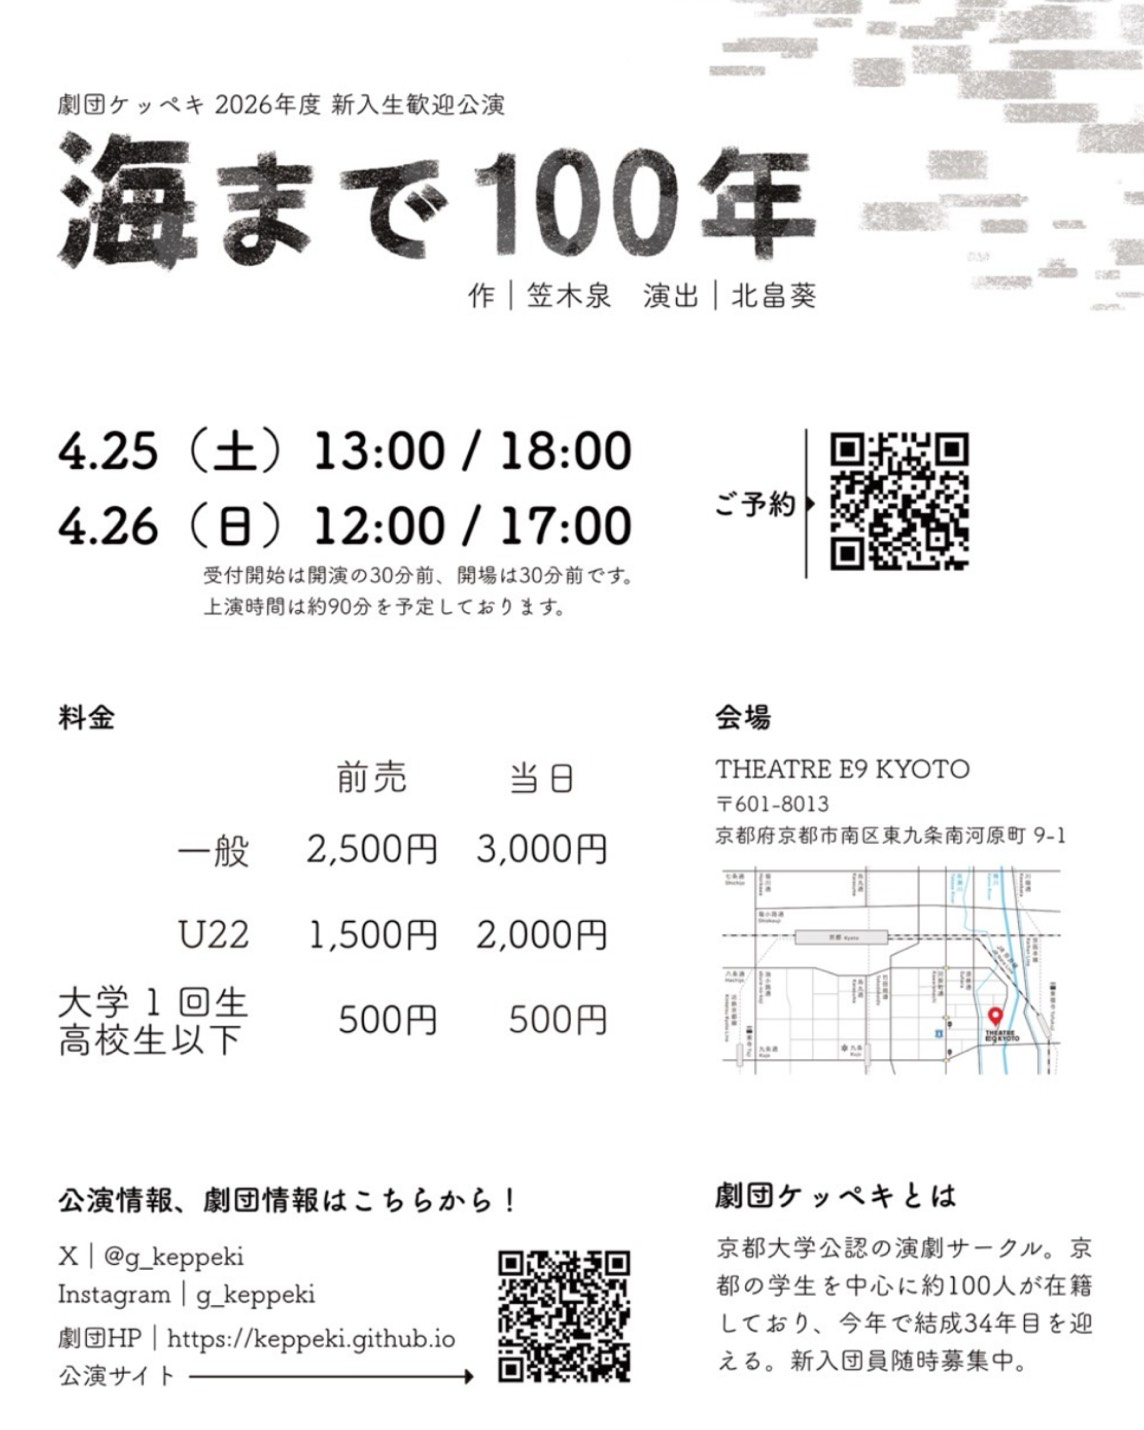
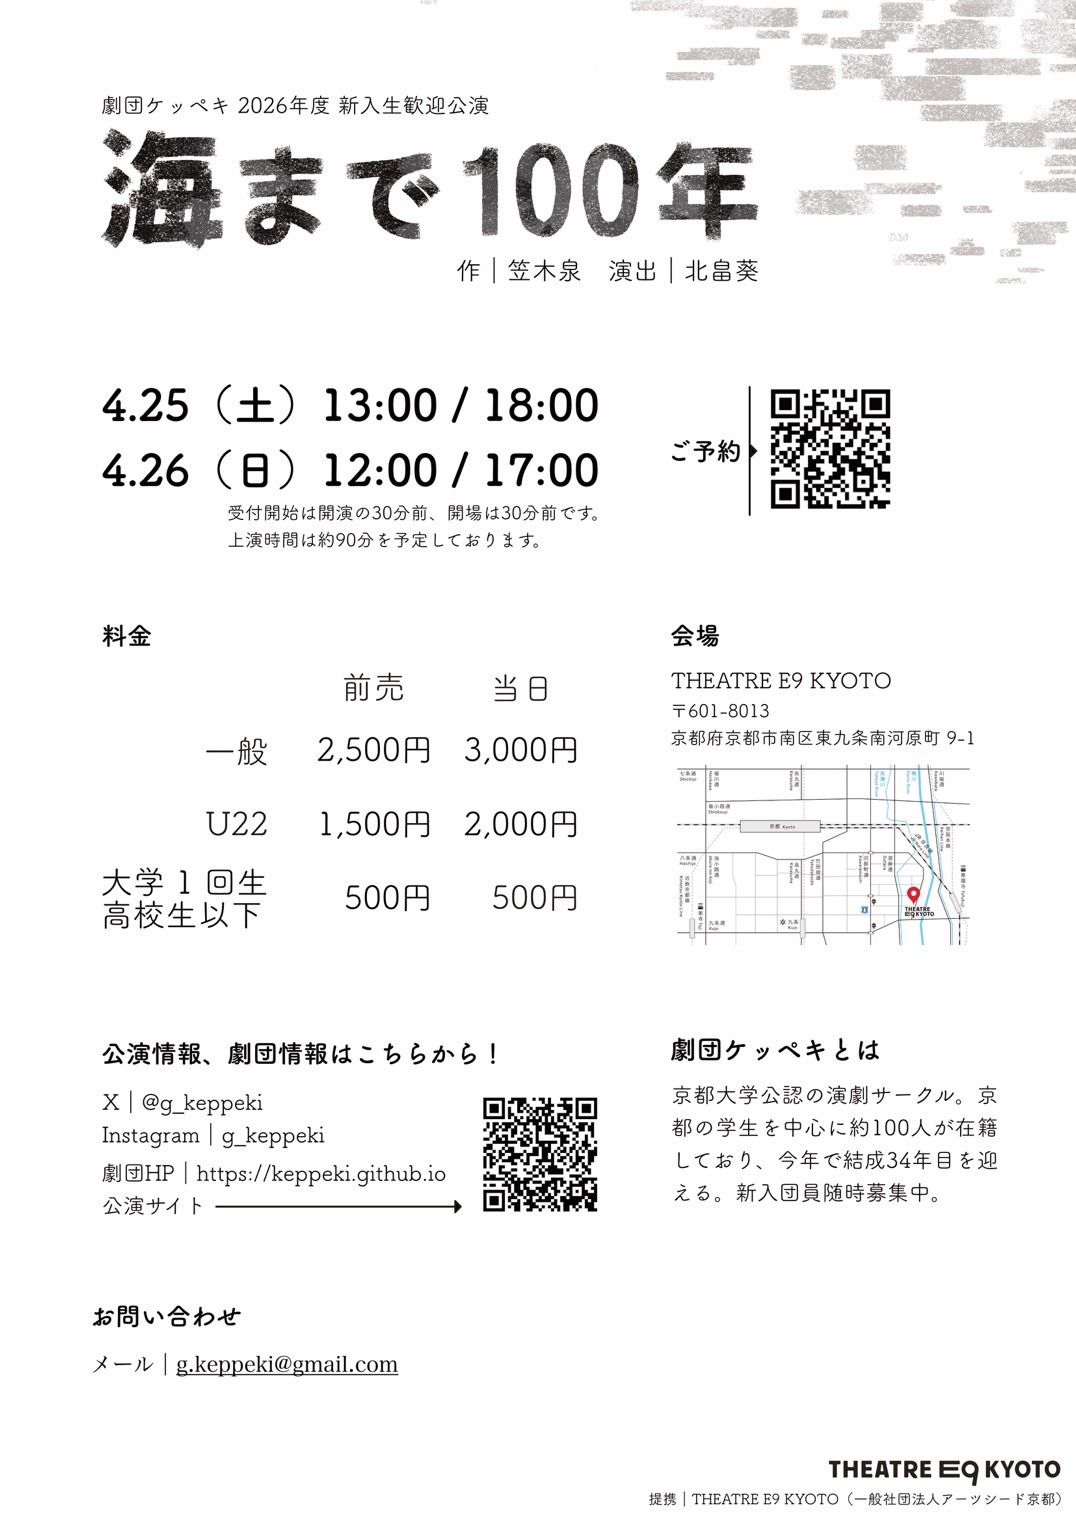
文字修正

diff --git a/docs/html/01_nextstage.html b/docs/html/01_nextstage.html
@@ -82,12 +82,12 @@
                         <!-- 料金 -->
                         <h5 class="fw-bold mt-4 mb-2">【料金】</h5>
                         <ul class="price-list">
-                            <li><span class="label">一般予約</span><span class="value">2,500円</span></li>
+                            <li><span class="label">一般前売</span><span class="value">2,500円</span></li>
                             <li><span class="label">一般当日</span><span class="value">3,000円</span></li>
                             <br>
-                            <li><span class="label">U22予約</span><span class="value">1,500円</span></li>
+                            <li><span class="label">U22前売</span><span class="value">1,500円</span></li>
                             <li><span class="label">U22当日</span><span class="value">2,000円</span></li>
-                            <li><span class="label">大学一回生,高校生以下<br>予約/当日</span><span class="value">500円</span></li>
+                            <li><span class="label">大学一回生,高校生以下<br>前売/当日</span><span class="value">500円</span></li>
 
                         </ul>
 
@@ -106,7 +106,7 @@
                     <!-- 右：フライヤー（LG以上で右側。スマホでは下に回る） -->
                     <div class="col-12 col-lg-5 order-2">
                         <figure class="flyer flyer-toggle" role="button" tabindex="0"
-                            aria-label="公演フライヤー（クリック／タップで裏表を切替）" aria-pressed="false" style="aspect-ratio: 4 / 5;">
+                            aria-label="公演フライヤー（クリック／タップで裏表を切替）" aria-pressed="false" style="aspect-ratio: 53 / 75;">
                             <!-- 表面 -->
                             <img class="front" src="../images/02.main_flyer/2026/sinkan/front.jpg" alt="公演フライヤー表">
                             <!-- 裏面 -->
